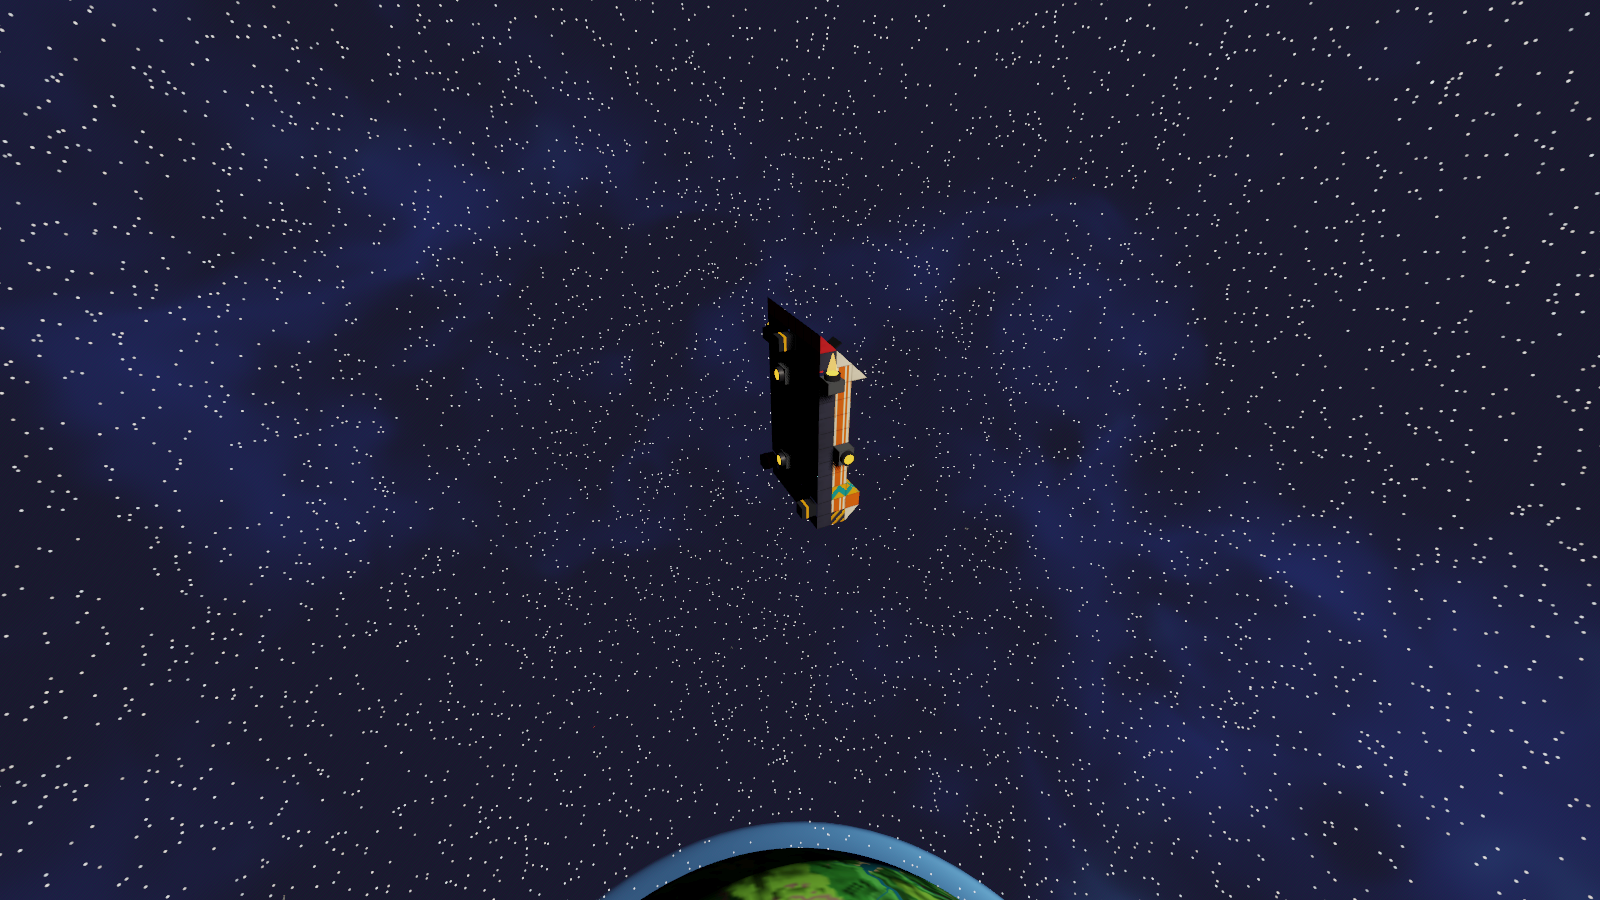
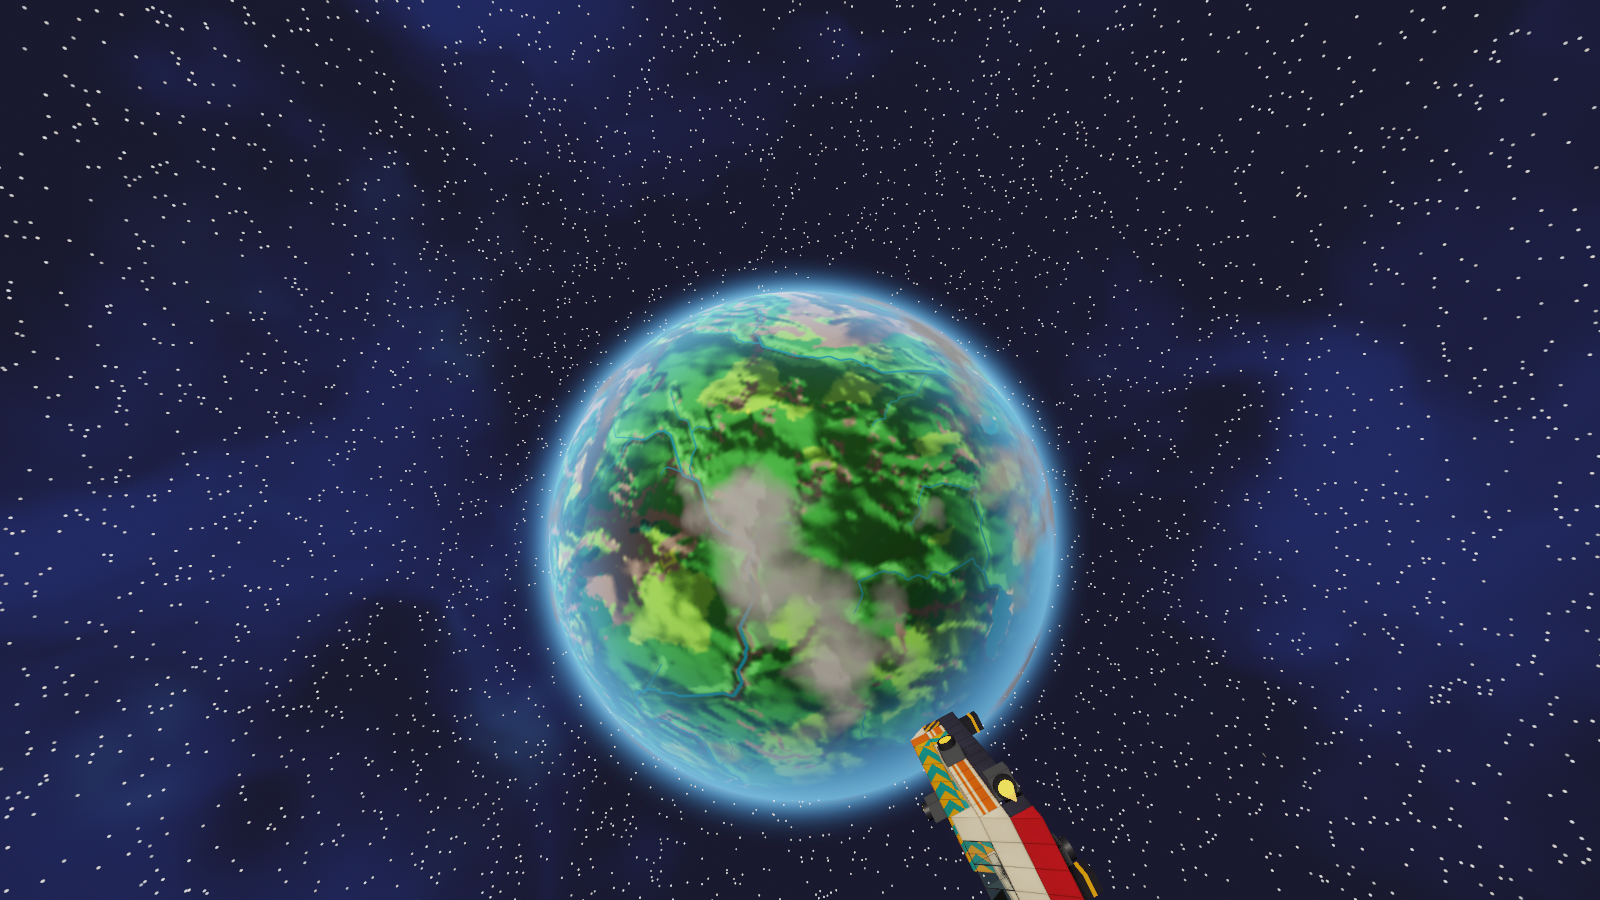
A soft rim of air and clouds on the globe; a site's pieces turn together; map tabs and system rings fit
Staging: fly round the globe, one field's own pieces, push clear of the deck. Stopped before the last screenshots and the gate: unverified.

diff --git a/prototypes/slice/tests/Staging.Orbit.cs b/prototypes/slice/tests/Staging.Orbit.cs
@@ -80,11 +80,13 @@ public sealed partial class Staging
         {
             foreach (int x in ToOrbit()) yield return x;
             Hurry(3);
-            Vector3 centre = _game.Orbit.ToWorld(N.Vector3.Zero).ToGodot();
-            Vector3 up = (Skiff.Body.Position.ToGodot() - centre).Normalized();
-            foreach (int x in _pilot.FlyTo(Skiff, () => centre + up * (_game.Orbit.ShellRadius + 2600f), 40f, 60f)) yield return x;
+            Vessel wreck = NearestWreck(_ => true);
+            Vector3 at = wreck.Body.Position.ToGodot();
+            Vector3 up = (at - _game.Orbit.ToWorld(N.Vector3.Zero).ToGodot()).Normalized();
+            foreach (int x in FlyRound(Skiff, at + up * 200f, 200f, 90f)) yield return x;
             Hurry(1);
             for (int i = 0; i < 70; i++) yield return 0;
+            _game.Spaceflight.Charts.Destination = _game.Spaceflight.Charts.Wrecks.FirstOrDefault()?.Key;
         }
         else
         {
@@ -239,16 +241,39 @@ public sealed partial class Staging
         Vessel piece = NearestWreck(w => w.Derelict.Site.Kind == "field" && !w.Derelict.Site.Id.Contains("pod"));
         if (piece == null) yield break;
         Vector3 centre = piece.Body.Position.ToGodot();
-        foreach (Vessel w in _game.Orbit.Wrecks.Where(w => w.Derelict.Site == piece.Derelict.Site)) centre += w.Body.Position.ToGodot();
-        centre /= 1 + _game.Orbit.Wrecks.Count(w => w.Derelict.Site == piece.Derelict.Site);
-        Vector3 up = (centre - _game.Orbit.ToWorld(N.Vector3.Zero).ToGodot()).Normalized();
+        // Its own pieces (a site's kind can stand in more than one place): "site3-debris-1" and so on.
+        string field = piece.Derelict.Id[..piece.Derelict.Id.LastIndexOf('-')];
+        foreach (Vessel w in _game.Orbit.Wrecks.Where(w => w.Derelict.Id.StartsWith(field + "-"))) centre += w.Body.Position.ToGodot();
+        centre /= 1 + _game.Orbit.Wrecks.Count(w => w.Derelict.Id.StartsWith(field + "-"));
+        Vector3 world = _game.Orbit.ToWorld(N.Vector3.Zero).ToGodot();
+        Vector3 up = (centre - world).Normalized();
         Hurry(3);
-        foreach (int x in _pilot.FlyTo(v, () => centre + up * 60f + (v.Body.Position.ToGodot() - centre).Normalized() * 120f, 30f, 120f)) yield return x;
+        foreach (int x in FlyRound(v, centre + up * 130f, 40f, 170f)) yield return x;
         Hurry(1);
         _game.Visor.Visible = _args.GetValueOrDefault("hud") == "1";
-        Vector3 eye = v.Body.Position.ToGodot() + up * 6f;
-        _game.FixedCamera = new Transform3D(Basis.LookingAt(centre - up * 40f - eye, up), eye);
+        // From the Skiff's bow, looking down over the field to the globe.
+        Vector3 at = v.Body.Position.ToGodot();
+        Vector3 eye = at + (centre - at).Normalized() * 14f;
+        _game.FixedCamera = new Transform3D(Basis.LookingAt(centre - up * 30f - eye, up), eye);
         for (int i = 0; i < 12; i++) yield return 0;
+    }
+
+    /// <summary>
+    /// Flies round the globe to a point high over it: out and around as a pilot does, not along the
+    /// straight line, which dips back into the air (and a dip under the crossing is a descent).
+    /// </summary>
+    IEnumerable<int> FlyRound(Vessel v, Vector3 over, float within, float seconds)
+    {
+        Vector3 world = _game.Orbit.ToWorld(N.Vector3.Zero).ToGodot();
+        Vector3 there = (over - world).Normalized();
+        float radius = (over - world).Length();
+        Vector3 Along()
+        {
+            Vector3 here = (v.Body.Position.ToGodot() - world).Normalized();
+            float left = here.AngleTo(there);
+            return world + (left < 0.15f ? there : here.Slerp(there, 0.15f / left)) * radius;
+        }
+        foreach (int x in _pilot.FlyTo(v, Along, within, seconds)) yield return x;
     }
 
     /// <summary>The derelict ship nearest, and its hull door in the world.</summary>
@@ -277,15 +302,22 @@ public sealed partial class Staging
         for (int i = 0; i < 20; i++) yield return 0;
     }
 
+    /// <summary>Off the deck: a jump clear of the Skiff's gravity, then afloat.</summary>
+    IEnumerable<int> PushOff()
+    {
+        _game.Controls.Hold(Key.Space);
+        for (int i = 0; i < 8; i++) yield return 0;
+        _game.Controls.ReleaseAll();
+        for (int i = 0; i < 40; i++) yield return 0;
+    }
+
     /// <summary>Floating across to a derelict's hull door, the Skiff behind.</summary>
     IEnumerable<int> EvaView()
     {
         foreach (int x in ToDerelict()) yield return x;
         var (ship, door, outward) = Derelict();
         if (ship == null) yield break;
-        _game.Controls.Hold(Key.Space);
-        for (int i = 0; i < 6; i++) yield return 0;
-        _game.Controls.ReleaseAll();
+        foreach (int x in PushOff()) yield return x;
         foreach (int x in _pilot.FloatTo(() => door + outward * 3.5f, 1.0f, 30f)) yield return x;
         _game.Visor.Visible = _args.GetValueOrDefault("hud") != "0";
         _game.ThirdPerson = true;
@@ -298,9 +330,7 @@ public sealed partial class Staging
         foreach (int x in ToDerelict()) yield return x;
         var (ship, door, outward) = Derelict();
         if (ship == null) yield break;
-        _game.Controls.Hold(Key.Space);
-        for (int i = 0; i < 6; i++) yield return 0;
-        _game.Controls.ReleaseAll();
+        foreach (int x in PushOff()) yield return x;
         foreach (int x in _pilot.FloatTo(() => door + outward * 2.2f, 0.8f, 30f)) yield return x;
         foreach (int x in _drive.LookAt(door, 4)) yield return x;
         foreach (int x in _drive.Tap(Key.E)) yield return x;

diff --git a/prototypes/slice/src/Orbit/Globe.cs b/prototypes/slice/src/Orbit/Globe.cs
@@ -19,6 +19,8 @@ public sealed class GlobePaint
     public Image Glow { get; private init; }
     public Image Clouds { get; private init; }
 
+    const float SeamBlend = 0.08f;
+
     /// <param name="coverage">The sky's own clouds over a map point (u, v, 0 to 1), so these are the clouds you fly through; null: the generator's.</param>
     public static GlobePaint Make(PlanetSpec spec, WorldMap map, OrbitRules.GlobeRules rules, Func<float, float, float> coverage = null)
     {
@@ -31,7 +33,10 @@ public sealed class GlobePaint
             if (coverage != null)
             {
                 int pixel = i / 4;
-                float c = coverage((pixel % rules.CloudWidth + 0.5f) / rules.CloudWidth, (pixel / rules.CloudWidth + 0.5f) / cloudHeight);
+                float u = (pixel % rules.CloudWidth + 0.5f) / rules.CloudWidth, v = (pixel / rules.CloudWidth + 0.5f) / cloudHeight;
+                float c = coverage(u, v);
+                // The sky's noise doesn't wrap at the map's edge: the last stretch blends into the first.
+                if (u > 1f - SeamBlend) c += (coverage(u - 1f, v) - c) * (u - (1f - SeamBlend)) / SeamBlend;
                 alpha = Math.Clamp(c / 0.16f, 0f, 1f) * 0.9f;
             }
             clouds[i] = (byte)(alpha * 255f);
@@ -54,8 +59,8 @@ public sealed class GlobePaint
 }
 
 /// <summary>
-/// The world below, seen from its orbit: planet-generator's globe (its planet, atmosphere and ring
-/// shaders, as its OrbitView draws them) at the orbit zone's scale, centred on the zone's frame, so
+/// The world below, seen from its orbit: planet-generator's globe (its planet and ring shaders, as
+/// its OrbitView draws them, with air of its own) at the orbit zone's scale, centred on the zone's frame, so
 /// a direction from the centre is always the same place on the map. It has no collider: a descent
 /// crosses into the atmosphere well above the ground it shows.
 ///
@@ -111,10 +116,37 @@ public partial class Globe : Node3D
         }
         """;
 
+    /// <summary>
+    /// The air seen from outside, worked out from each eye ray rather than the shell's normal (the
+    /// generator's rim reads as a solid band from close to): over the limb the glow thins away with
+    /// the height of the ray's lowest point, and over the disc it thins toward the middle, meeting
+    /// at the ground's edge, so there is no line there and none at the top.
+    /// </summary>
+    const string AirSource = """
+        shader_type spatial;
+        render_mode unshaded, blend_add, depth_draw_never, cull_back;
+        uniform vec3 color : source_color;
+        uniform vec3 sun_dir = vec3(1.0, 0.0, 0.0);
+        uniform float strength = 1.0;
+        uniform float ground = 1.0;
+        uniform float top = 1.1;
+        void fragment() {
+            vec3 centre = MODEL_MATRIX[3].xyz;
+            vec3 point = (INV_VIEW_MATRIX * vec4(VERTEX, 1.0)).xyz;
+            vec3 ray = normalize(point - CAMERA_POSITION_WORLD);
+            vec3 eye = CAMERA_POSITION_WORLD - centre;
+            float lowest = length(eye + ray * max(-dot(eye, ray), 0.0));
+            float h = (lowest - ground) / (top - ground);
+            float thick = h >= 0.0 ? exp(-4.5 * h) * clamp(1.0 - h, 0.0, 1.0) : pow(lowest / ground, 10.0);
+            float day = smoothstep(-0.3, 0.35, dot(normalize(point - centre), sun_dir));
+            ALBEDO = color * thick * day * strength;
+        }
+        """;
+
     /// <summary>How far off the globe's nearest point is drawn while it overlaps the terrain, m.</summary>
     const float PulledTo = 450f;
 
-    const float AirStrength = 1.4f;
+    const float AirStrength = 1.1f;
 
     ShaderMaterial _ground, _clouds, _air, _ringMaterial;
     MeshInstance3D _ring;
@@ -139,8 +171,10 @@ public partial class Globe : Node3D
         _clouds.SetShaderParameter("cloud_map", ImageTexture.CreateFromImage(paint.Clouds));
         AddChild(Sphere("Clouds", radius * (1f + (float)rules.CloudHeight), rules.Segments * 2 / 3, rules.Rings * 2 / 3, _clouds));
         yield return 0;
-        _air = new ShaderMaterial { Shader = Planets.Shaders.Atmosphere };
+        _air = new ShaderMaterial { Shader = new Shader { Code = AirSource } };
         _air.SetShaderParameter("color", C(look.Atmosphere));
+        _air.SetShaderParameter("ground", radius);
+        _air.SetShaderParameter("top", atmosphereRadius);
         AddChild(Sphere("Atmosphere", atmosphereRadius, rules.Segments / 2, rules.Rings / 2, _air));
         _ringMaterial = new ShaderMaterial { Shader = Planets.Shaders.Ring };
         _ringMaterial.SetShaderParameter("color", C(look.RingColor));

diff --git a/prototypes/slice/src/Ui/MapLevels.cs b/prototypes/slice/src/Ui/MapLevels.cs
@@ -42,7 +42,7 @@ public sealed class MapLevels
     {
         (string id, string label, MapLevel level)[] tabs = { ("map:local", "HERE", MapLevel.Local), ("map:world", "WORLD", MapLevel.World), ("map:system", "SYSTEM", MapLevel.System), ("map:stars", "STARS", MapLevel.Stars) };
         for (int i = 0; i < tabs.Length; i++)
-            if (g.Tab(tabs[i].id, new Rect2(at + new Vector2(i * 78, 0), new Vector2(74, 34)), tabs[i].label, Level == tabs[i].level, C.Accent2)) Level = tabs[i].level;
+            if (g.Tab(tabs[i].id, new Rect2(at + new Vector2(i % 2 * 156, i / 2 * 38), new Vector2(150, 34)), tabs[i].label, Level == tabs[i].level, C.Accent2)) Level = tabs[i].level;
     }
 
     /// <summary>Draws the level that isn't the local map. False for the local map (the section draws it).</summary>
@@ -166,8 +166,10 @@ public sealed class MapLevels
     {
         Charts charts = _game.Spaceflight.Charts;
         List<SystemEntry> bodies = Charts.Bodies(_game.Surface.Planet.Sky, "Your world");
-        Vector2 c = panel.GetCenter() + new Vector2(-panel.Size.X * 0.22f, 0f);
-        float unit = panel.Size.Y * 0.9f;
+        // The outermost orbit fits the panel; nothing is drawn past its edge.
+        Vector2 c = panel.GetCenter();
+        float far = bodies.Where(e => e.Kind != "moon").Select(e => e.Orbit).DefaultIfEmpty(0f).Max();
+        float unit = far > 0f ? panel.Size.Y * 0.47f / far : panel.Size.Y * 0.47f;
         var places = new Dictionary<string, Vector2>();
         Vector2 At(SystemEntry e, Vector2 about) => about + new Vector2(MathF.Cos(e.Bearing), MathF.Sin(e.Bearing)) * e.Orbit * unit;
         Vector2 world = c;

diff --git a/prototypes/slice/src/Orbit/Derelicts.cs b/prototypes/slice/src/Orbit/Derelicts.cs
@@ -73,13 +73,13 @@ public static class Derelicts
                 "field" => Field(rng, poi, id, catalogue),
                 _ => Station(rng, poi, id, catalogue),
             };
+            // Pieces were laid out round the site's centre in its own frame: turn the whole site.
+            N.Quaternion siteTurn = RandomTurn(rng);
             foreach (DerelictPlan p in pieces)
             {
                 p.Site = poi.Site;
                 p.State = poi.State;
                 p.Zone = poi.Zone;
-                // Pieces were laid out round the site's centre in its own frame: turn the whole site.
-                N.Quaternion siteTurn = RandomTurn(rng);
                 p.Position = centre + N.Vector3.Transform(p.Position, siteTurn);
                 p.Rotation = N.Quaternion.Normalize(siteTurn * p.Rotation);
                 Stock(p, rng, poi.Site.Salvage, rules, items);

diff --git a/prototypes/slice/src/Orbit/Spaceflight.cs b/prototypes/slice/src/Orbit/Spaceflight.cs
@@ -185,7 +185,7 @@ public partial class Spaceflight : Node
         // The globe's clouds are the sky's: the same coverage over the map, as it stands now.
         SurfaceZone s = Game.Surface;
         PlanetSurface.Skies.CloudCoverage clouds = s.Sky.Clouds;
-        float cover = s.Sky.Air.CloudCover, w = (float)s.Planet.Width, h = (float)s.Planet.Height;
+        float cover = MathF.Max(s.Sky.Air.CloudCover, (float)Rules.Globe.CloudCoverAtLeast), w = (float)s.Planet.Width, h = (float)s.Planet.Height;
         Vector2 drift = s.Sky.CloudDrift, scale = s.Sky.CloudScale;
         Func<float, float, float> coverage = clouds == null ? null : (u, v) => clouds.Coverage(u * w, v * h, cover, drift, scale);
         Orbit = new OrbitZone(s.Planet, s.Data, Rules, SystemSeed(s.Spec), Ceiling, coverage)

diff --git a/prototypes/slice/src/Orbit/OrbitRules.cs b/prototypes/slice/src/Orbit/OrbitRules.cs
@@ -24,6 +24,7 @@ public sealed class OrbitRules
         public int CloudWidth { get; set; } = 1024;
         public double CloudHeight { get; set; } = 0.012;
         public double CloudOpacity { get; set; } = 0.55;
+        public double CloudCoverAtLeast { get; set; } = 0.38;
     }
 
     public sealed class CrossingRules
